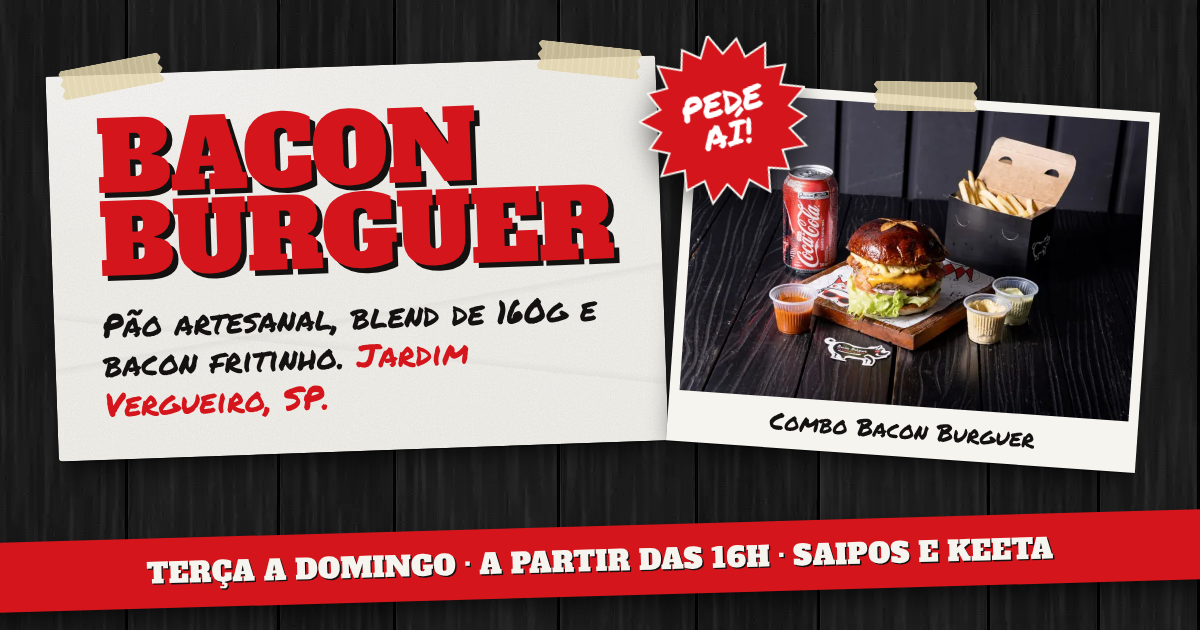
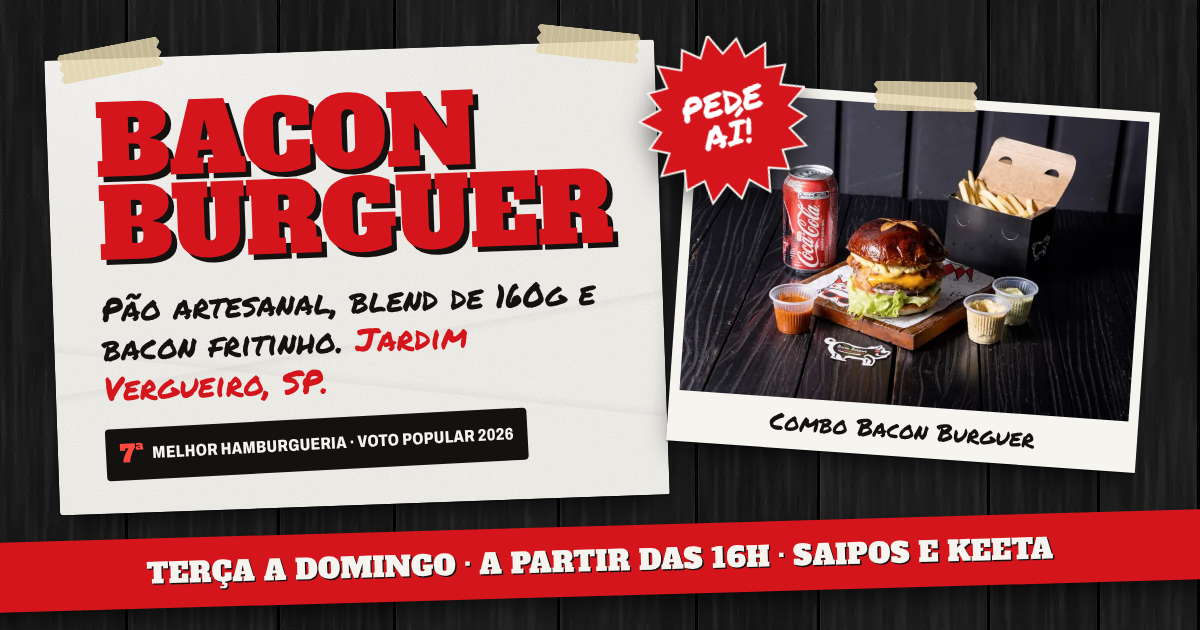
Destaca o prêmio do Guia do Hambúrguer 2026
- Medalha "7ª melhor hamburgueria · voto popular 2026" presa na foto
  da abertura, levando ao bloco do prêmio
- Bloco com a foto da placa na seção "Quem já veio"
- Prêmio na faixa vermelha, no JSON-LD (award), na descrição e na
  imagem de compartilhamento
- Remove a seta decorativa da abertura, que disputava espaço com a medalha

Claude-Session: https://claude.ai/code/session_01RfKMbEWj9oW1f5XwkpnQr5

Changed region(s): [[0.0308, 0.0302, 0.555, 0.8143]]

diff --git a/index.html b/index.html
@@ -14,7 +14,7 @@
   <meta property="og:site_name" content="Bacon Burguer">
   <meta property="og:url" content="https://baconburguer.vercel.app/">
   <meta property="og:title" content="Bacon Burguer · Hamburgueria no Jardim Vergueiro">
-  <meta property="og:description" content="Pão artesanal, blend de 160g e bacon fritinho. Terça a domingo, a partir das 16h. Peça pelo Saipos ou Keeta.">
+  <meta property="og:description" content="7ª melhor hamburgueria pelo voto popular (Guia do Hambúrguer 2026). Pão artesanal, blend de 160g e bacon fritinho. Peça pelo Saipos ou Keeta.">
   <meta property="og:image" content="https://baconburguer.vercel.app/assets/img/og.jpg">
   <meta property="og:image:type" content="image/jpeg">
   <meta property="og:image:width" content="1200">
@@ -53,7 +53,8 @@
       { "@type": "OpeningHoursSpecification", "dayOfWeek": ["Friday", "Saturday", "Sunday"], "opens": "16:00", "closes": "23:45" }
     ],
     "sameAs": ["https://www.instagram.com/baconburguer_hamburgueria/"],
-    "hasMenu": "https://baconburguer.saipos.com/home"
+    "hasMenu": "https://baconburguer.saipos.com/home",
+    "award": "7ª Melhor Hamburgueria pelo Voto Popular — Guia do Hambúrguer, Ranking 2026, Grande São Paulo"
   }
   </script>
 </head>
@@ -140,14 +141,25 @@ FINISH: unreviewed and undocumented is unfinished; this build ends with the fini
       <span class="fita fita--topo" aria-hidden="true"></span>
       <img src="assets/img/burger-danger.webp" width="700" height="467" alt="Danger Burguer: pão artesanal escuro, duas carnes, cheddar derretido e bacon, sobre tábua de madeira" fetchpriority="high">
       <figcaption class="pincel">Danger Burguer · 2 carnes de 160g</figcaption>
+      <a class="medalha" href="#premio" aria-label="7ª melhor hamburgueria pelo voto popular, Guia do Hambúrguer, ranking 2026. Ver o prêmio.">
+        <svg viewBox="0 0 140 172" aria-hidden="true">
+          <path d="M50 98 28 166l17-9 13 13 16-62Z" fill="#a10e13"/>
+          <path d="M90 98l22 68-17-9-13 13-16-62Z" fill="#d4161c"/>
+          <circle cx="70" cy="66" r="62" fill="#f6f4ef" stroke="#141111" stroke-width="4"/>
+          <circle cx="70" cy="66" r="41" fill="#d4161c" stroke="#141111" stroke-width="3"/>
+          <path id="aro-medalha" d="M70 66m-51 0a51 51 0 1 1 102 0a51 51 0 1 1-102 0" fill="none"/>
+          <text class="medalha__aro"><textPath href="#aro-medalha" textLength="316" lengthAdjust="spacing">MELHOR HAMBURGUERIA · VOTO POPULAR 2026 ·</textPath></text>
+          <text class="medalha__num" x="70" y="78" text-anchor="middle">7ª</text>
+        </svg>
+      </a>
     </figure>
+
 
     <a class="estrela" href="https://baconburguer.saipos.com/home" target="_blank" rel="noopener" aria-label="Pede aí: abrir o cardápio no Saipos">
       <svg aria-hidden="true"><use href="#burst"/></svg>
       <span class="estrela__texto">Pede<br>aí!</span>
     </a>
 
-    <svg class="seta-pincel" viewBox="0 0 140 90" aria-hidden="true"><path d="M8 12c30 4 70 18 92 58m0 0-2-22m2 22-20-8" fill="none" stroke="currentColor" stroke-width="5" stroke-linecap="round" stroke-linejoin="round"/></svg>
   </section>
 
   <!-- FAIXA -->
@@ -158,11 +170,13 @@ FINISH: unreviewed and undocumented is unfinished; this build ends with the fini
       <span>Pão artesanal</span><svg><use href="#pig"/></svg>
       <span>Bacon fritinho</span><svg><use href="#pig"/></svg>
       <span>Molho secreto</span><svg><use href="#pig"/></svg>
+      <span>7ª melhor hamburgueria pelo voto popular</span><svg><use href="#pig"/></svg>
       <span>Terça a domingo, a partir das 16h</span><svg><use href="#pig"/></svg>
       <span>Blend de 160g</span><svg><use href="#pig"/></svg>
       <span>Pão artesanal</span><svg><use href="#pig"/></svg>
       <span>Bacon fritinho</span><svg><use href="#pig"/></svg>
       <span>Molho secreto</span><svg><use href="#pig"/></svg>
+      <span>7ª melhor hamburgueria pelo voto popular</span><svg><use href="#pig"/></svg>
       <span>Terça a domingo, a partir das 16h</span><svg><use href="#pig"/></svg>
     </div>
   </div>
@@ -441,6 +455,21 @@ FINISH: unreviewed and undocumented is unfinished; this build ends with the fini
       <h2 id="titulo-avaliacoes" class="letreiro-parede">Quem já veio</h2>
       <p class="pincel secao__nota">Avaliação de cliente, sem tirar nem pôr.</p>
     </header>
+
+    <div class="premio" id="premio">
+      <figure class="foto-colada premio__foto" style="--r:-2.5deg">
+        <span class="fita fita--topo" aria-hidden="true"></span>
+        <img src="assets/img/premio-guia-2026.webp" width="409" height="549" loading="lazy" alt="Placa do Guia do Hambúrguer: 7ª Melhor Hamburgueria pelo Voto Popular, Bacon Burguer, Ranking 2026, Grande São Paulo">
+        <figcaption class="pincel">a placa tá lá na parede</figcaption>
+      </figure>
+      <div class="cartaz premio__cartaz" style="--r:1.2deg">
+        <span class="fita fita--e" aria-hidden="true"></span>
+        <span class="fita fita--d" aria-hidden="true"></span>
+        <p class="premio__titulo"><span class="premio__num">7ª</span> melhor hamburgueria pelo voto popular</p>
+        <p class="premio__fonte">Guia do Hambúrguer · Ranking 2026 · Grande São Paulo</p>
+        <p class="pincel premio__valeu">Quem votou foi o povo. Valeu, quebrada!</p>
+      </div>
+    </div>
 
     <figure class="frase-parede">
       <blockquote><p>É um presente para a periferia.</p></blockquote>

diff --git a/assets/css/style.css b/assets/css/style.css
@@ -827,6 +827,61 @@ address { font-style: normal; }
 .bilhete__detalhe { margin-top: .25rem; font-size: .8rem; font-weight: 700; font-stretch: 82%; text-transform: uppercase; letter-spacing: .04em; color: var(--tinta-2); }
 .avaliacoes__dica { margin-bottom: .1rem; }
 
+/* ---------- prêmio ---------- */
+
+.medalha {
+  position: absolute;
+  z-index: 4;
+  top: clamp(-3.4rem, -7vw, -2.4rem);
+  right: clamp(-1.6rem, -3vw, -.6rem);
+  width: clamp(88px, 24vw, 128px);
+  transform: rotate(8deg);
+  transition: transform .4s var(--ease-colar);
+  filter: drop-shadow(0 10px 14px rgba(0, 0, 0, .55));
+}
+.medalha svg { display: block; width: 100%; height: auto; overflow: visible; }
+.medalha:hover { transform: rotate(-4deg) scale(1.05); }
+.medalha__aro { font-family: var(--f-corpo); font-weight: 800; font-stretch: 75%; font-size: 10.5px; letter-spacing: .02em; fill: var(--tinta); }
+.medalha__num { font-family: var(--f-letreiro); font-size: 38px; fill: var(--papel); }
+
+.premio {
+  display: grid;
+  grid-template-columns: minmax(0, 1fr);
+  gap: 2.75rem;
+  align-items: center;
+  margin-bottom: clamp(4rem, 9vw, 6rem);
+}
+.premio__foto { width: min(72%, 300px); justify-self: center; }
+.premio__cartaz { padding: clamp(2rem, 5vw, 2.75rem) clamp(1.25rem, 4vw, 2.5rem); }
+.premio__titulo {
+  font-family: var(--f-letreiro);
+  text-transform: uppercase;
+  font-size: clamp(1.9rem, 6vw, 3.1rem);
+  line-height: .95;
+  color: var(--tinta);
+  text-shadow: .05em .05em 0 var(--vermelho);
+  text-wrap: balance;
+}
+.premio__num {
+  display: inline-block;
+  margin-right: .1em;
+  font-size: 1.9em;
+  line-height: .8;
+  color: var(--vermelho);
+  text-shadow: .05em .05em 0 var(--tinta);
+  vertical-align: -.12em;
+}
+.premio__fonte {
+  margin-top: 1rem;
+  font-weight: 800;
+  font-stretch: 82%;
+  text-transform: uppercase;
+  letter-spacing: .04em;
+  font-size: .9rem;
+  color: var(--tinta-2);
+}
+.premio__valeu { margin-top: .9rem; font-size: clamp(1.3rem, 3.4vw, 1.6rem); color: var(--vermelho); }
+
 /* ---------- a casa ---------- */
 
 .casa__grade {
@@ -1143,6 +1198,9 @@ body { padding-bottom: 80px; }
   .mural--shakes > .oferta:nth-child(1) { grid-column: 3 / 7; }
   .mural--shakes > .oferta:nth-child(2) { grid-column: 7 / 11; margin-top: 3rem; }
   .mural--bilhetes { gap: 2.5rem 1.75rem; }
+  .premio { grid-template-columns: repeat(12, minmax(0, 1fr)); gap: 2rem; }
+  .premio__foto { grid-column: 2 / 5; width: 100%; }
+  .premio__cartaz { grid-column: 5 / 12; }
   .mural--bilhetes > .bilhete { grid-column: span 3; }
   .mural--bilhetes > .bilhete:nth-child(2) { margin-top: 3rem; }
   .mural--bilhetes > .bilhete:nth-child(3) { margin-top: 1rem; }

diff --git a/.impeccable/og/og-src.html b/.impeccable/og/og-src.html
@@ -15,6 +15,9 @@
   .og-estrela span{position:relative;font-family:var(--f-pincel);font-size:2.1rem;line-height:.95;text-align:center;text-transform:uppercase}
   .og-faixa{position:absolute;left:-40px;right:-40px;bottom:34px;transform:rotate(-1.6deg);background:var(--vermelho);padding:14px 0;text-align:center;box-shadow:0 18px 30px -14px rgba(0,0,0,.8)}
   .og-faixa span{font-family:var(--f-letreiro);text-transform:uppercase;color:var(--papel);font-size:1.75rem;text-shadow:.05em .05em 0 var(--tinta);letter-spacing:.01em}
+  .og-premio{margin-top:18px;display:inline-flex;align-items:center;gap:.5rem;padding:8px 14px;background:var(--tinta);color:var(--papel);font-family:var(--f-corpo);font-weight:800;font-stretch:80%;text-transform:uppercase;letter-spacing:.02em;font-size:1.05rem;border-radius:4px;transform:rotate(-1deg)}
+  .og-premio b{font-family:var(--f-letreiro);font-weight:400;color:var(--vermelho-vivo);font-size:1.5rem}
+  .og-cartaz{top:50px!important}
 </style></head>
 <body>
 <svg width="0" height="0" style="position:absolute"><symbol id="burst" viewBox="-4 -4 208 208"><polygon points="100.0,-2.0 113.5,23.2 133.2,8.8 139.0,32.5 165.6,21.9 159.8,49.9 184.0,51.5 173.3,73.3 200.5,82.3 178.0,100.0 195.5,116.8 173.3,126.7 188.3,151.0 159.8,150.1 162.4,174.3 139.0,167.5 134.9,195.8 113.5,176.8 100.0,197.0 86.5,176.8 65.1,195.8 61.0,167.5 37.6,174.3 40.2,150.1 11.7,151.0 26.7,126.7 4.5,116.8 22.0,100.0 -0.5,82.3 26.7,73.3 16.0,51.5 40.2,49.9 34.4,21.9 61.0,32.5 66.8,8.8 86.5,23.2"/></symbol></svg>
@@ -22,6 +25,7 @@
   <span class="fita fita--e"></span><span class="fita fita--d"></span>
   <div class="letreiro"><span class="letreiro__linha">Bacon</span><span class="letreiro__linha">Burguer</span></div>
   <p class="pincel">Pão artesanal, blend de 160g e bacon fritinho. <em>Jardim Vergueiro, SP.</em></p>
+  <p class="og-premio"><b>7ª</b> melhor hamburgueria · voto popular 2026</p>
 </div>
 <figure class="foto-colada og-foto" style="margin:0">
   <span class="fita fita--topo"></span>

diff --git a/PRODUCT.md b/PRODUCT.md
@@ -62,6 +62,9 @@ A neighbourhood burger house with a periferia identity: pretzel-style dark artes
 
 ## Evidence on Hand
 
+- Award (confirmed, plaque photo `assets/img/premio-guia-2026.webp`): 7ª Melhor Hamburgueria pelo Voto Popular — Guia do Hambúrguer, Ranking 2026, Grande São Paulo.
+- Real customer reviews (Samara, Renata Lauton, Isabel Santos, Theo), all 5 stars, supplied by the owner.
+
 - `assets/img/` — five product photos (one per burger) on dark wood, two venue photos, one top-down table photo.
 - No testimonials, ratings, awards or press were provided; never fabricate them.
 
